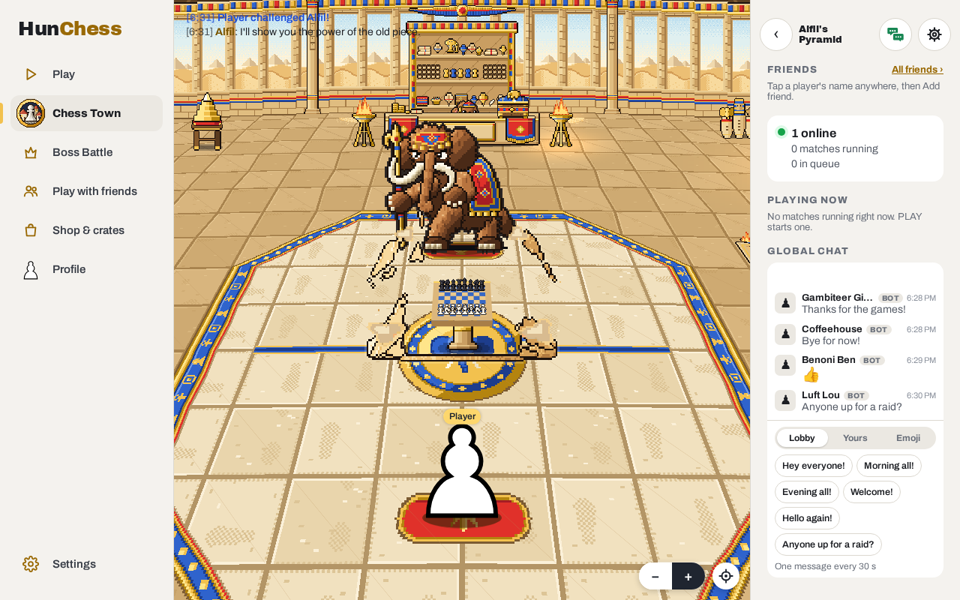
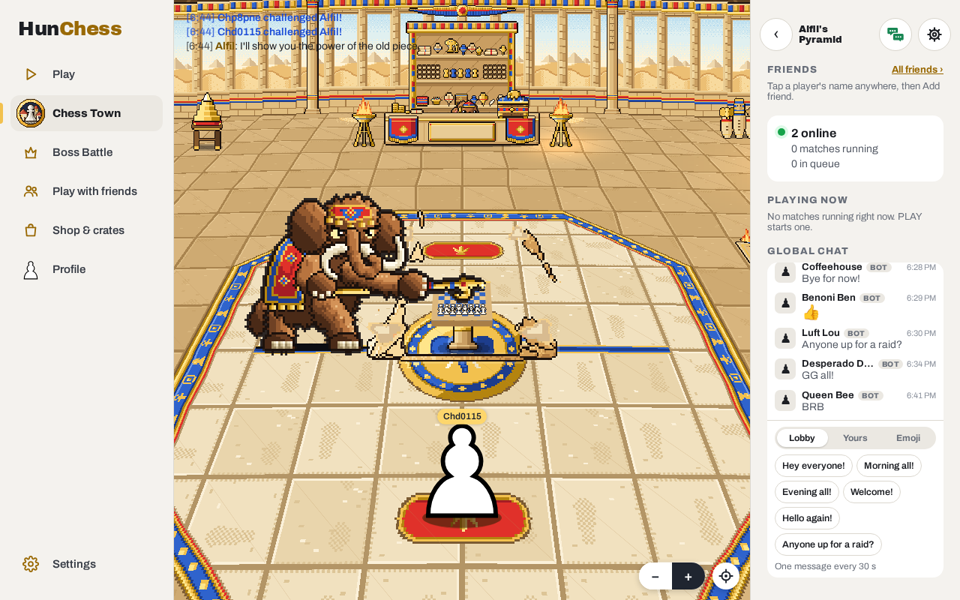
Boss challenge: the boss's God King attack (its kit's kingAttack and sounds) at the board from 2 s before the storm covers, looping; e2e sees it before the cover; a name per run (the shared town chat); the GIF and stills again
Claude-Session: https://claude.ai/code/session_01EKH5j59nMnRVnekEcuZbim

diff --git a/e2e/boss-challenge.spec.ts b/e2e/boss-challenge.spec.ts
@@ -1,13 +1,13 @@
 import { expect, type Page } from "@playwright/test";
 import { mkdirSync, writeFileSync } from "node:fs";
-import { BOARD_SEL, asSignedIn, test } from "./helpers.ts";
+import { BOARD_SEL, asSignedIn, named, test } from "./helpers.ts";
 
 /**
  * A boss challenged from the town, Pokémon-gym style (Eric, Nov 2; docs/areas/town-square.md, "Challenging a boss"), Alfil first, on a
  * phone and a computer: his card's "Challenge alone", its confirm ("Challenge Alfil?", Fight); you and Alfil walk to his Pyramid's
  * door and in; you each walk to your start mark on the battle circle (you south, him north, facing each other); he says his line in
  * a speech bubble (and into the chat log); the sand pyramid rises between you, cracks and crumbles, and his table with the board is
- * there; the sandstorm sweeps in, the battle loads under it (Boss alone, Alfil), and it slides off the board; the boss mates you
+ * there; his God King attack plays beside it a couple of seconds before the sandstorm covers the screen; the sandstorm sweeps in, the battle loads under it (Boss alone, Alfil), and it slides off the board; the boss mates you
  * (?mate=1), the result screen, "Back to town", and you're in the town square where you stood, facing the same way. The town's chat
  * (signed in): the server's lines (Eric, Nov 2), "<you> challenged Alfil!" as the battle starts and "Alfil beat <you> in N moves." as it
  * finishes; a first challenge quit (the gear's Leave or Resign before 10 moves) posts no outcome, and the second posts no start line.
@@ -30,7 +30,7 @@ test.beforeEach(async ({ page }) => {
 });
 
 type Stand = { c: number; r: number; facing: number; view: number; moving: boolean };
-type Intro = { step: string; you: [number, number]; boss: [number, number]; line: boolean; table: boolean; pyramid: { anim: string; frame: number } | null };
+type Intro = { step: string; attack: boolean; you: [number, number]; boss: [number, number]; line: boolean; table: boolean; pyramid: { anim: string; frame: number } | null };
 type Hooks = {
   __townAt?: (k: string, id: string) => { x: number; y: number } | null;
   __townYou?: () => Stand | null;
@@ -74,8 +74,8 @@ async function toConfirm(page: Page) {
   await expect.poll(async () => (await youNow(page))?.moving, { message: "you've walked up to him" }).toBe(false);
   return { confirm, stood: (await youNow(page))! };
 }
-/** The server's lines in the town's chat now. */
-const serverLines = (page: Page) => page.locator(".tc-line.tc-server").allTextContents();
+/** The server's lines in the town's chat now, about `who` (the town's chat is everyone's: the other project's lines are there too). */
+const serverLines = async (page: Page, who: string) => (await page.locator(".tc-line.tc-server").allTextContents()).filter((l) => l.includes(` ${who} `) || l.includes(` ${who}.`));
 /** Back in the town square, where you stood, facing the way you faced. */
 async function backAt(page: Page, stood: Stand) {
   await expect(page.getByRole("heading", { name: "Town square" })).toBeVisible();
@@ -93,6 +93,9 @@ test("challenging Alfil in the town: in with him to his marks, his line, the pyr
   if (SHOTS) mkdirSync(SHOTS, { recursive: true });
   const shot = async (name: string) => SHOTS && (await page.screenshot({ path: `${SHOTS}/${name}-${project}.png` }));
   // Signed in (the town's chat is for signed-in players: the server's lines too).
+  // (A name of its own: the town's chat is shared with the other project's run.)
+  const me = `Ch${project[0]}${Math.random().toString(36).slice(2, 6)}`;
+  await named(page, me);
   // (Once the page has its account: signing in a request's own new account would race the page's.)
   await page.goto("/town");
   await expect(town(page)).toHaveAttribute("data-ready", "1");
@@ -115,7 +118,7 @@ test("challenging Alfil in the town: in with him to his marks, his line, the pyr
     if (how === "Resign") await page.getByRole("button", { name: "Back to town" }).click();
     await backAt(page, stood);
     // Its start line, and no outcome.
-    await expect.poll(() => serverLines(page), { timeout: 15_000 }).toEqual([expect.stringMatching(/ challenged Alfil!$/)]);
+    await expect.poll(() => serverLines(page, me), { timeout: 15_000 }).toEqual([expect.stringMatching(new RegExp(`\\] ${me} challenged Alfil!$`))]);
   }
 
   // ---- A second challenge, finished (?mate=1: the boss mates you at once, so the battle ends by itself and its result shows).
@@ -155,10 +158,14 @@ test("challenging Alfil in the town: in with him to his marks, his line, the pyr
   await expect.poll(step, { message: "it crumbles: the table and the board", intervals: [50] }).toMatch(/crumble|table/);
   await expect.poll(async () => (await intro(page))?.table, { intervals: [50] }).toBe(true);
   await shot("04-table");
+  // His God King attack (his kit's), beside the table, a couple of seconds before the storm covers the screen (Eric, Nov 2), and on.
+  await expect.poll(async () => (await intro(page))?.attack, { message: "his attack", intervals: [50] }).toBe(true);
+  expect(await storm(page).getAttribute("data-phase", { timeout: 100 }).catch(() => null), "before the storm covers").not.toBe("covered");
+  await shot("045-attack");
   // The storm sweeps in over everything, and the battle loads under it.
   await expect(storm(page)).toHaveCount(1, { timeout: 10_000 });
   await expect(storm(page)).toHaveAttribute("data-boss", "alfil");
-  await expect.poll(() => storm(page).getAttribute("data-phase").catch(() => null), { intervals: [50] }).toBe("covered");
+  await expect(storm(page)).toHaveAttribute("data-covered", "1");
   grabbing = false;
   await grabbed;
   for (const [i, f] of frames.entries()) writeFileSync(`${SHOTS}/gif-${String(i).padStart(3, "0")}.png`, f);
@@ -183,8 +190,8 @@ test("challenging Alfil in the town: in with him to his marks, his line, the pyr
   // The server's lines: still the one start line (the quit left it open: no second), and this battle's outcome (?mate=1 plays
   // your moves for you, none of them yours: no count; the counts are packages/server/test/town-chat.test.ts's).
   await expect
-    .poll(() => serverLines(page), { timeout: 15_000 })
-    .toEqual([expect.stringMatching(/ challenged Alfil!$/), expect.stringMatching(/ Alfil beat .+?( in \d+ moves?)?\.$/)]);
+    .poll(() => serverLines(page, me), { timeout: 15_000 })
+    .toEqual([expect.stringMatching(new RegExp(`\\] ${me} challenged Alfil!$`)), expect.stringMatching(new RegExp(`\\] Alfil beat ${me}( in \\d+ moves?)?\\.$`))]);
   await shot("08-back-in-town");
   expect(errors).toEqual([]);
 });

diff --git a/packages/app/src/town/shops/ShopRoom.tsx b/packages/app/src/town/shops/ShopRoom.tsx
@@ -43,7 +43,8 @@ import type { Rider } from "../rides.ts";
 import { rideSpeed } from "../../components/rides/scale.ts";
 import { inTalkRange, isFloor, makeRoom, onDoor, tapTarget, findPath, type Room, type ShopPlace, type Sq } from "./room.ts";
 import { POOL_LINE, bossHoldings, buyBossCrate, canAfford, holdLine, priceLine, prizeRows, shopOf, wayText, type CrateWay, type ShopDef } from "./shops.ts";
-import { CHALLENGE_FEEL, introAt, introCues, introLength, marksOf, type IntroNow } from "./challenge.ts";
+import { CHALLENGE_FEEL, attackStart, attackTime, frameAt as animFrame, introAt, introCues, introLength, marksOf, type IntroNow } from "./challenge.ts";
+import { play } from "../../sound.ts";
 import { paintTable, playCue, type LoadedIntro } from "./intro.ts";
 import { say } from "../chat.ts";
 
@@ -317,6 +318,10 @@ function startRoom(
   let introDone = false;
   const cues = ci ? introCues(ci.beats, ci.anims) : [];
   const introEnd = ci ? introLength(ci.beats) : 0;
+  /** Its God King attack (its kit's), from `attackAt` into the intro on: the frame showing (-1: not attacking), its last cue's frame. */
+  const attackAt = ci ? attackStart(ci.beats) : Infinity;
+  let attackFrame = -1;
+  let attackCued = -1;
   if (boss && marks) {
     you.stepMs = C.walkStepMs;
     const yp = findPath(room, you.here(), marks.youSq);
@@ -348,6 +353,17 @@ function startRoom(
       say(def.boss, ci.def.line, "boss");
     }
     while (cueN < cues.length && t >= cues[cueN]!.at) playCue(ci, cues[cueN++]!.cue);
+    // The boss's attack: from `attackAt` on, until the battle takes the screen (its lashes again and again), each frame's sound.
+    const a = ci.attack;
+    if (a && t >= attackAt) {
+      attackFrame = animFrame(a.ms, attackTime(t - attackAt, a.beat), false);
+      if (attackFrame !== attackCued) {
+        attackCued = attackFrame;
+        const cue = a.cues[attackFrame];
+        const sound = cue ? a.sounds[cue] : undefined;
+        if (sound) play(sound);
+      }
+    }
     if (cv.dataset.intro !== introNow.step) cv.dataset.intro = introNow.step;
     if (!introDone && t >= introEnd) {
       introDone = true;
@@ -773,9 +789,27 @@ function startRoom(
   };
   /** The boss (in a challenge): its town sprite, its idle playing, at the town's size, its shadows as the town draws a boss's. */
   const bossHead = { x: 0, y: 0, on: false };
+  /**
+   * The boss's God King attack: dropped in beside the table, its target the board (to its right, or its left for one drawn facing
+   * left), at the boss's own size in the room.
+   */
+  const drawAttack = () => {
+    const a = ci!.attack!;
+    if (!marks || !P(marks.table.c, marks.table.r)) return;
+    const img = a.frames[attackFrame]!;
+    const k = (ci!.boss.squares * pt.k) / ci!.boss.ch.h;
+    const side = a.facesLeft ? 1 : -1;
+    const fx = pt.x + side * a.standPx * k;
+    const x0 = fx - a.ch.foot[0] * k;
+    const y0 = pt.y - a.ch.foot[1] * k;
+    g.imageSmoothingEnabled = k < 1.5;
+    g.drawImage(img, x0, y0, img.width * k, img.height * k);
+    g.imageSmoothingEnabled = false;
+  };
   const drawBoss = (now: number) => {
     bossHead.on = false;
     if (!ci || !boss) return;
+    if (attackFrame >= 0 && ci.attack) return drawAttack();
     boss.pose(now, bossPose);
     if (!P(bossPose.x + bossOx(now), bossPose.y)) return;
     const b = ci.boss;
@@ -961,7 +995,8 @@ function startRoom(
     addFig(pose.y, 1);
     if (boss && marks) {
       boss.pose(now, bossPose);
-      addFig(bossPose.y, 2);
+      // (Attacking, it stands beside the table, just in front of it.)
+      addFig(attackFrame >= 0 ? marks.table.r + 0.01 : bossPose.y, 2);
       if (introNow) addFig(marks.table.r, 3);
     }
     let k = 0;
@@ -1201,7 +1236,7 @@ function startRoom(
     const now = performance.now();
     you.pose(now, pose);
     boss.pose(now, bossPose);
-    return { step: introNow?.step ?? "walk", you: [pose.x + youOx(now), pose.y], boss: [bossPose.x + bossOx(now), bossPose.y], line: !!introNow?.line && bossHead.on, table: !!introNow?.table, pyramid: introNow?.pyramid ?? null };
+    return { step: introNow?.step ?? "walk", attack: attackFrame >= 0, you: [pose.x + youOx(now), pose.y], boss: [bossPose.x + bossOx(now), bossPose.y], line: !!introNow?.line && bossHead.on, table: !!introNow?.table, pyramid: introNow?.pyramid ?? null };
   };
   const hookBench = (k: number) => {
     if (!testSwitchesAllowed()) return null;

diff --git a/packages/app/src/town/shops/intro.ts b/packages/app/src/town/shops/intro.ts
@@ -12,6 +12,8 @@
  *   battle opens under it): the storm's tile (tiled, 3x, crisp) sweeps in behind its front, holds while the battle loads, and slides
  *   out with its front mirrored.
  */
+import { KING_ATTACK } from "@chessroyale/chess";
+import { bossKit } from "../../characters/kits.ts";
 import { renderFrame, type Character } from "../../characters/sprite.ts";
 import { play, warmSounds, type SoundName } from "../../sound.ts";
 import { newPt, proj, tableLift, type TableLift, type View } from "../camera.ts";
@@ -56,6 +58,11 @@ export interface LoadedIntro {
   /** The boss: its sprite's idle frames, when each ends, and how many squares tall it stands (the town's size). */
   boss: { ch: Character; frames: HTMLCanvasElement[]; ends: number[]; loop: number; squares: number };
   storm: StormArt;
+  /**
+   * Its God King attack (its kit's `kingAttack`), or null: a boss without one skips it. Its frames, each one's ms and cue, its
+   * sounds by cue (the kit's), how it faces, where its feet stand off its target (frame pixels: `stand` squares of `perSquare`).
+   */
+  attack: { ch: Character; frames: HTMLCanvasElement[]; ms: number[]; cues: (string | undefined)[]; sounds: Readonly<Record<string, SoundName>>; facesLeft: boolean; standPx: number; beat: typeof KING_ATTACK } | null;
 }
 
 const canvasOf = (w: number, h: number) => {
@@ -111,8 +118,23 @@ export function loadIntro(home: HomeId): Promise<LoadedIntro> | null {
       backs: art.front.anims.idle!.frames.map((_, i) => scaled(toCanvas(art.front, "idle", i), k, true)),
       ms: stormFrames.map((f) => Math.max(16, f.ms)),
     };
+    // Its God King attack, if its kit has one (every playable boss's does but Timber's, today).
+    const kit = bossKit(def.name);
+    const ka = kit?.kingAttack ?? null;
+    const attack = ka
+      ? {
+          ch: ka.ch,
+          frames: ka.ch.anims[ka.anim]!.frames.map((_, i) => toCanvas(ka.ch, ka.anim, i)),
+          ms: ka.ch.anims[ka.anim]!.frames.map((f) => Math.max(16, f.ms)),
+          cues: ka.ch.anims[ka.anim]!.frames.map((f) => f.cue),
+          sounds: kit!.sounds,
+          facesLeft: !!ka.facesLeft,
+          standPx: ka.stand * ka.perSquare,
+          beat: KING_ATTACK,
+        }
+      : null;
     // (The cues' sounds made ahead, in the sound worker: playing one never costs a frame.)
-    warmSounds(Object.values(def.cues) as SoundName[]);
+    warmSounds([...(Object.values(def.cues) as SoundName[]), ...(attack ? Object.values(attack.sounds) : [])]);
     return {
       home,
       def,
@@ -122,6 +144,7 @@ export function loadIntro(home: HomeId): Promise<LoadedIntro> | null {
       table: { ch: art.table, img: toCanvas(art.table, "idle", 0), palette: art.palette },
       boss: { ch: bossCh, frames: bossIdle.map((_, i) => toCanvas(bossCh, "idle", i)), ends, loop: t, squares: TOWN_FEEL.bossSquares * (TOWN_FEEL.bossScale[home] ?? 1) },
       storm,
+      attack,
     };
   });
   p.catch(() => loading.delete(home));
@@ -260,7 +283,7 @@ export interface Storm {
 /**
  * Starts the storm: its front sweeps in from the left over `stormInMs` with the storm tiled behind it (all on one frame index),
  * then it holds, covering everything, until `out()`. The canvas takes every tap while it shows. Its phase is on the element
- * (`data-phase`: "in", "covered", "out") for tests.
+ * (`data-phase`: "in", "covered", "out"; `data-covered="1"` once it has covered the screen) for tests.
  */
 export function startStorm(intro: LoadedIntro): Storm {
   const F = CHALLENGE_FEEL;
@@ -333,6 +356,7 @@ export function startStorm(intro: LoadedIntro): Storm {
       phase = "covered";
       coveredAt = performance.now();
       cv.dataset.phase = phase;
+      cv.dataset.covered = "1";
       ok();
     }, F.stormInMs),
   );

diff --git a/packages/app/src/town/shops/challenge.ts b/packages/app/src/town/shops/challenge.ts
@@ -13,6 +13,8 @@ import type { ShopPlace } from "./room.ts";
 
 /** A boss's intro: its challenge line (one per boss: Gemini's lines, Part D, drop in here) and the sounds on its art's cues. */
 export interface BossIntro {
+  /** Its name as its kit knows it (its God King attack comes from there). */
+  name: string;
   /** Said out loud in a speech bubble over its head (and into the town's chat log) as you face each other. */
   line: string;
   /** A sound for each of the art's cues that has a fitting one (the boss's own pack): none is silent. */
@@ -27,6 +29,7 @@ export interface BossIntro {
  */
 export const BOSS_INTROS: Readonly<Partial<Record<HomeId, BossIntro>>> = {
   alfil: {
+    name: "Alfil",
     line: "I'll show you the power of the old piece.",
     cues: { rumble: "alfilRumble", crack: "alfilCrunch", crumble: "alfilThud", table: "alfilGlow", storm: "alfilWhoosh" },
   },
@@ -56,6 +59,12 @@ export const CHALLENGE_FEEL = {
    */
   camSouth: 1.5,
   camZoom: 0.6,
+  /**
+   * The boss's attack (its kit's `kingAttack`, the one it fires at the God King; Eric, Nov 2: "a few seconds before the screen
+   * overlay hits… it continues on until the screen is fully cloaked"): it starts this long before the storm covers the screen,
+   * and plays on (its lashes over and over) until the battle takes the screen. A boss without one skips it.
+   */
+  attackLeadMs: 2000,
   /** The storm's tiles are drawn this many times their size, crisp. */
   stormScale: 3,
 } as const;
@@ -219,6 +228,20 @@ export function introCues(beats: readonly IntroBeat[], a: IntroAnims): { cue: st
     { cue: "crumble", at: at("crumble") },
     { cue: "table", at: at("crumble") + sum(a.crumble.slice(0, a.tableFrame)) },
   ];
+}
+
+// ---- The boss's attack (its God King attack: its kit's `kingAttack`).
+
+/** When the attack starts, ms into the intro: `attackLeadMs` before the storm covers the screen (never before the intro starts). */
+export const attackStart = (beats: readonly IntroBeat[], feel: Pick<typeof CHALLENGE_FEEL, "stormInMs" | "attackLeadMs"> = CHALLENGE_FEEL): number =>
+  Math.max(0, introLength(beats) + feel.stormInMs - feel.attackLeadMs);
+/**
+ * Where its animation is, `t` ms into it: as it plays at the God King (its drop-in, its first lashes), and from the moment it would
+ * leap off, its lashes again and again (`lashAt` to `leaveAt`), so it keeps on until the screen is covered.
+ */
+export function attackTime(t: number, beat: { lashAt: number; leaveAt: number }): number {
+  if (t < beat.leaveAt) return Math.max(0, t);
+  return beat.lashAt + ((t - beat.lashAt) % (beat.leaveAt - beat.lashAt));
 }
 
 // ---- The storm.

diff --git a/packages/app/test/boss-challenge.test.ts b/packages/app/test/boss-challenge.test.ts
@@ -3,7 +3,7 @@ import { INTRO_ALFIL_PYRAMID } from "../src/town/shops/alfil-intro-art.ts";
 import { SHOP_ALFIL_LAYOUT } from "../src/town/shops/alfil-art.ts";
 import { SHOP_BABUR_LAYOUT } from "../src/town/shops/babur-art.ts";
 import { SHOP_PUDDLES_LAYOUT } from "../src/town/shops/puddles-art.ts";
-import { CHALLENGE_FEEL, frameAt, introAt, introBeats, introCues, introLength, introOf, marksOf, nextFlow, stormEdge, type ChallengeEvent, type ChallengeFlow, type IntroAnims } from "../src/town/shops/challenge.ts";
+import { CHALLENGE_FEEL, attackStart, attackTime, frameAt, introAt, introBeats, introCues, introLength, introOf, marksOf, nextFlow, stormEdge, type ChallengeEvent, type ChallengeFlow, type IntroAnims } from "../src/town/shops/challenge.ts";
 import { findPath, makeRoom } from "../src/town/shops/room.ts";
 import { SHOPS } from "../src/town/shops/shops.ts";
 import { HOMES, START, Walker, createTown, standOf } from "../src/town/world.ts";
@@ -166,5 +166,26 @@ describe("back to the town", () => {
     w.go([{ c: 6, r: 5 }, { c: 7, r: 5 }]);
     w.update(0);
     expect(standOf(w)).toMatchObject({ c: 6, r: 5 });
+  });
+});
+
+describe("the boss's attack in its intro (its God King attack)", () => {
+  const beats = introBeats(ALFIL);
+  const beat = { lashAt: 560, leaveAt: 2380 };
+
+  it("starts attackLeadMs before the storm covers the screen (so during the crumble), and keeps on until the battle shows", () => {
+    const at = attackStart(beats);
+    expect(at).toBe(introLength(beats) + CHALLENGE_FEEL.stormInMs - CHALLENGE_FEEL.attackLeadMs);
+    expect(introAt(beats, ALFIL, at).step).toMatch(/crack|crumble|table/);
+    expect(attackTime(0, beat)).toBe(0);
+    expect(attackTime(1000, beat)).toBe(1000);
+    // (Where it would leap off, its lashes again, over and over.)
+    expect(attackTime(2380, beat)).toBe(560);
+    expect(attackTime(2380 + 1820 + 10, beat)).toBe(570);
+  });
+
+  it("Alfil's kit has one (every playable boss's does but Timber's: his intro would skip it)", async () => {
+    const { bossKit } = await import("../src/characters/kits.ts");
+    expect(bossKit(introOf("alfil")!.name)?.kingAttack).toBeDefined();
   });
 });

diff --git a/docs/areas/town-square.md b/docs/areas/town-square.md
@@ -571,7 +571,9 @@ the battle, "Back to town" puts you where you stood. Decision: [2026-11-02-boss-
   art's `circle-mark` tiles), side by side at `walkStepMs`. Facing each other: its line in a speech bubble over its head and into the
   chat log (`BOSS_INTROS[id].line`; Alfil's a placeholder, "I'll show you the power of the old piece.", until Gemini's lines), the
   pyramid rising `riseAtMs` into it, holding, cracking, crumbling, the table and its board (`introBeats` / `introAt`), its cues'
-  sounds (`cues`). Then the storm (`startStorm`: a canvas over the whole page, outside the town, so it stays as the town closes)
+  sounds (`cues`). From `attackLeadMs` (2 s) before the storm covers, the boss fires its God King attack (its kit's `kingAttack`,
+  with its sounds) at the board, beside the table, its lashes looping until the battle takes the screen (`attackStart`,
+  `attackTime`); a boss whose kit has none skips it. Then the storm (`startStorm`: a canvas over the whole page, outside the town, so it stays as the town closes)
   sweeps in, the battle starts under it (the app's `challengeFromTown`: Boss alone, as START), and it slides off the board. The back
   button calls it off until the storm starts. A tap doesn't skip. About 6 s from the door to the storm covering.
 - **After the battle:** the result screen's leaving button reads **"Back to town"**; it (and the gear's Leave: "You'll go back to the

diff --git a/docs/decisions/2026-11-02-boss-challenge.md b/docs/decisions/2026-11-02-boss-challenge.md
@@ -19,6 +19,12 @@ The calls made:
 - **Order:** the line starts as you face each other and the pyramid rises 0.4 s into it, holding (its idle) until the line's
   1.8 s are up; then crack, crumble, the table on its own for 0.35 s, the storm. That's the art's own plan (rise, then "idle
   while he says it"), and it keeps the whole thing under 6 s: about 1.2 s walking in, 3.9 s of intro, 0.6 s of storm in.
+- **The boss's God King attack** (Eric, Nov 2: "fire off the boss attack animation… a few seconds before the screen overlay hits
+  … until the screen is fully cloaked"): its kit's `kingAttack` with its kit's sounds, from 2 s before the storm covers
+  (`attackLeadMs`: during the crumble), its target the board on the table (it drops in beside the table, as beside a king), at its
+  room size; past its leap-off it lashes again and again, so it's still going as the storm covers and the battle loads. Any boss
+  whose kit has one gets it; one without (Timber today) skips it. Its hit effects on the king's square aren't drawn in the room:
+  the attack's own figure and sounds read on their own.
 - **No skipping** (a tap does nothing during the intro). It's short; a skip can come if Eric wants it. The back button calls it
   off until the storm starts.
 - **The board** on Alfil's table is the town's park-table board (the same code, without its cache), white's ranks nearest you.
